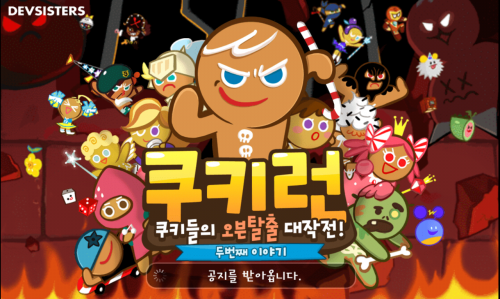
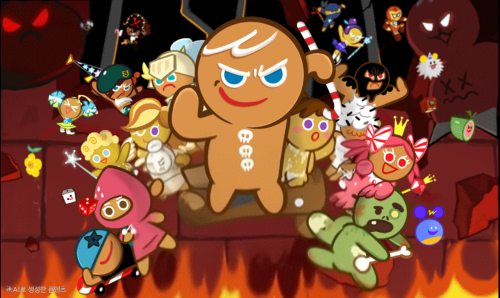
화면 구현 완료

diff --git a/home/home.css b/home/home.css
@@ -12,20 +12,16 @@ body {
   font-family: "CookieRun-Regular", sans-serif;
   background: linear-gradient(to top, #fdd, #fff7f7);
   overflow: hidden;
-
-  background-image: url("../images/main_display.png");
-  background-size: cover;
-  background-position: center center;
-  background-repeat: no-repeat;
-  background-attachment: fixed;
-
   height: 100vh;
+  box-sizing: border-box;
 }
+
 #gameCanvas {
   display: block;
   margin: 0 auto;
 }
 #startScreen {
+  margin-top: 20%;
   position: absolute;
   top: 0;
   left: 0;
@@ -36,7 +32,7 @@ body {
   justify-content: center;
   flex-direction: column;
 
-  background-color: rgba(0, 0, 0, 0.2);
+  background-color: rgba(0, 0, 0, 0);
   color: white;
   font-size: 2rem;
 }
@@ -53,4 +49,15 @@ body {
   padding: 10px;
   border-radius: 5px;
   display: none;
+}
+
+#backgroundImg {
+  position: absolute;
+  top: 50%;
+  left: 50%;
+  transform: translate(-50%, -50%);
+  width: 85vw;
+  height: auto;
+  z-index: -1;
+  opacity: 1;
 }

diff --git a/home/home.html b/home/home.html
@@ -8,6 +8,7 @@
     <script src="./home.js"></script>
   </head>
   <body>
+    <img id="backgroundImg" src="../images/main_display.png" alt="메인 배경" />
     <div id="startScreen">
       <h1>쿠키런: 벽돌깨기</h1>
       <div>
